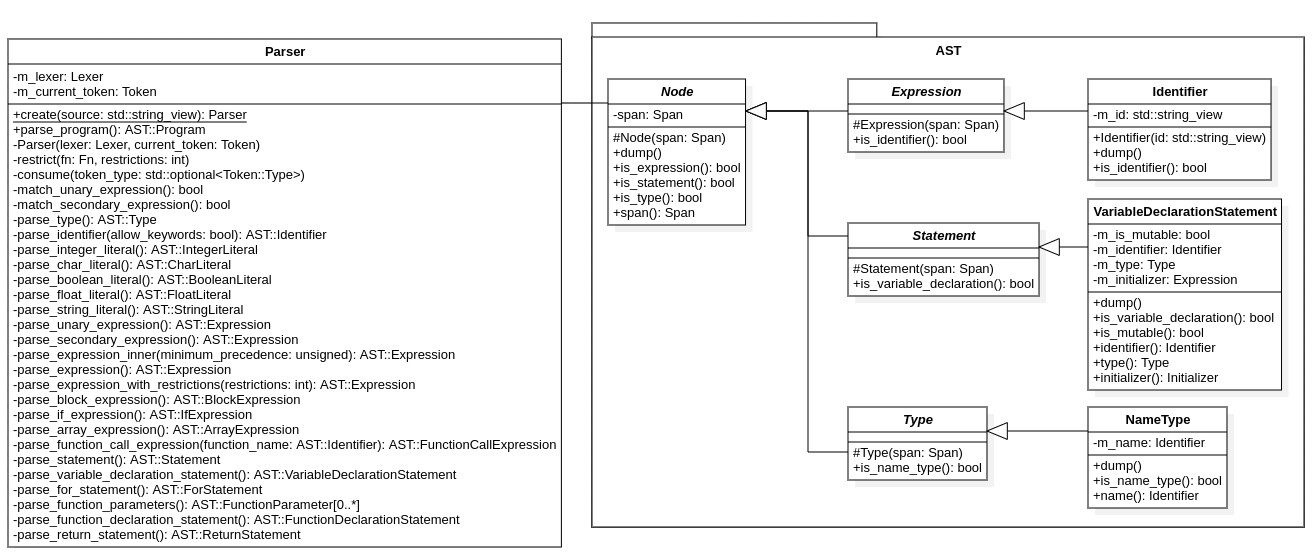
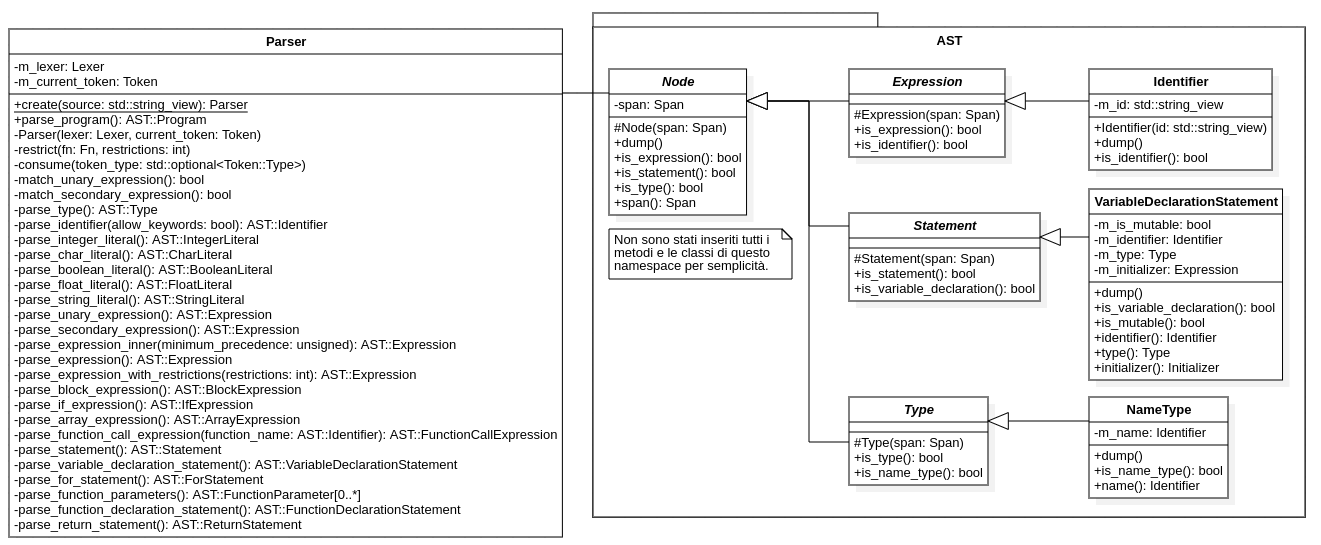
Finished second section of second chapter.

Changed region(s): [[0.0, 0.0, 0.9992, 0.9982]]

diff --git a/Architettura_del_compilatore.tex b/Architettura_del_compilatore.tex
@@ -78,6 +78,85 @@ In base al carattere incontrato, si delega il compito dell'analisi lessicale ad 
 
 L'analisi grammaticale \`e realizzata per mezzo della classe \texttt{Parser} e il gruppo di classi nel \textit{namespace} \texttt{AST}.
 
+Partiamo dal descrivere il \textit{namespace} \texttt{AST}. Questo contiene la classe madre \texttt{Node} che rappresenta un generico nodo dell'AST. L'unico suo attributo \`e \texttt{span}, la posizione nel codice sorgente. Da essa derivano le seguenti classi astratte:
+\begin{itemize}
+	\item \texttt{Expression}: rappresenta un'espressione, ovvero un nodo che restituisce un valore;
+	\item \texttt{Statement}: rappresenta uno italiano, ovvero un nodo che non restituisce un valore;
+	\item \texttt{Type}: rappresenta un tipo di dato.
+\end{itemize}
+Da ciascuna di queste a loro volta, derivano tutte le classi che rappresentano i nodi dell'AST. Ad esempio, come \`e possibile osservare nella figura \ref{fig:parser-uml}, possiamo osservare tre nodi:
+\begin{itemize}
+	\item \texttt{Identifier}: sottoclasse di \texttt{Expression}, rappresenta un identificatore ed \`e descritto dall'attributo stringa \texttt{id}.
+	\item \texttt{VariableDeclarationStatement}: sottoclasse di \texttt{Statement}, rappresenta una dichiarazione di variable ed \`e descritto dagli attributi:
+	\begin{itemize}
+		\item \texttt{is\_mutable}: un booleano che indica se la variabile \`e mutabile o meno;
+		\item \texttt{identifier}: il nome della variabile (un oggetto di tipo \linebreak \texttt{Identifier});
+		\item \texttt{type}: il tipo della variabile (un oggetto di tipo \texttt{Type});
+		\item \texttt{initializer}: l'inizializzatore della variabile (un oggetto di tipo \texttt{Expression}).
+	\end{itemize}
+	\item \texttt{NameType}: sottoclasse di \texttt{Type}, rappresenta un tipo di dato descritto da un singolo identificatore, il quale sar\`a un tipo primitivo (ad esempio: \texttt{i32} o \texttt{char}).
+\end{itemize}
+
+\`E bene notare che la classe \texttt{Node} definisce una serie di metodi importanti:
+\begin{itemize}
+	\item il metodo \texttt{dump} che permette di stampare in formato JSON l'intera struttura del nodo; questo risulta utile in fase di debugging per verificare l'AST generato dal \texttt{Parser}.
+	\item i metodi \mbox{\texttt{is\_expression}, \texttt{is\_statement} e \texttt{is\_type}} che permettono di verificare il tipo di nodo; questi metodi sono utili per effettuare controlli e conversioni di tipo durante l'analisi semantica e la generazione del codice.
+\end{itemize}
+
+Come anticipato nella sezione \ref{sec:analisi-grammaticale}, la grammatica di questo linguaggio \`e LL(1) e, citando \cite{alfred2007compilers}:
+\begin{parcolumns}[colwidths={1=0.44\textwidth,2=0.44\textwidth},rulebetween=true,nofirstindent=true,sloppy=true]{2}
+	% LTeX: language=en_us
+	\colchunk{
+		\leftskip=1em
+		``The first ``L'' in LL(1) stands for scanning the input from left to right, the second ``L'' for producing a leftmost derivation, and the ``1'' for using one input symbol of \emph{lookahead} at each step to make parsing action decisions.''
+	}
+	% LTeX: language=it
+	\colchunk{
+		\leftskip=1em
+		``La prima ``L'' in LL(1) indica che si analizza l'input da sinistra verso destra, la seconda ``L'' indica che si produce una derivazione sinistra e l'``1'' per usare un \emph{lookahead} di un simbolo d'input a ogni passo per fare decisioni di analisi grammaticale.''
+	}
+	\colplacechunks
+\end{parcolumns}
+
+I parser costruiti per questo tipo di grammatica, e di conseguenza quella di BugginOut, sono detti \emph{predictive}, ovvero dei parser \emph{recursive descent} senza il bisogno di \emph{backtracking}. I parser \emph{recursive descent} sono dei particolari parser \emph{top-down} costruiti con delle procedure ricorsive dove ognuna di queste riflette un non-terminale della grammatica. Si \`e scelto di costruire il parser seguendo questo approccio proprio perch\'e il codice che ne risulta \`e molto semplice, leggibile ed efficiente, non essendo richiesto il backtracking. Di fatti, gli unici due attributi richiesti per mantenere lo stato del parser sono:
+\begin{itemize}
+	\item \texttt{lexer}: il \texttt{Lexer} che fornisce i token da analizzare;
+	\item \texttt{current\_token}: il token corrente da analizzare.
+\end{itemize}
+
+Ogni metodo del parser, che rappresenta un non-terminale della grammatica, analizzer\`a il token corrente e, se corretto, lo \emph{consumer\`a}. Questa operazione viene implementata dal metodo \texttt{consume} e corrisponde ad ottenere il prossimo token dal \texttt{Lexer} e aggiornare \texttt{current\_token}. Il metodo prevede un parametro opzionale che permette di specificare il tipo di token atteso. Se il token corrente non corrisponde al tipo atteso, viene generato un errore di sintassi. Se il tipo di token non viene specificato, il metodo consuma il token corrente.
+
+\`E importante notare che per realizzare dei \emph{predictive parser} la grammatica deve soddisfare due requisiti molto importanti:
+\begin{itemize}
+	\item non deve contenere ricorsioni sinistre;
+	\item non deve essere ambigua.
+\end{itemize}
+
+La grammatica, per come \`e stata definita, non contiene ricorsioni sinistre ma \`e ambigua nella gestione delle espressioni e dei loro operatori. Questo \`e stato fatto volutamente per due ragioni:
+\begin{itemize}
+	\item \`e possibile cambiare la precedenza ed associativit\`a degli operatori in modo semplice, senza dover modificare la grammatica;
+	\item il parser non spende tempo utile nell'analizzare produzioni \textit{singole} ovvero costituite da un solo non-terminale.
+\end{itemize}
+In ogni caso, l'amgiguit\`a deve essere gestita e, per farlo, si utilizza un algoritmo di \emph{precedence climbing}.
+
+Introdotto per la prima volta da \cite{barron1981bcpl}, l'idea alla base \`e quella di avere una funzione ricevere in input un'espressione e una \emph{precedenza minima}. Durante l'analisi, la funzione consuma gli operandi fino a quando incontra operatori la cui precedenza \`e maggiore o uguale a quella minima. Se un operatore ha precedenza inferiore, l'espressione si interrompe e si ritorna al livello di ricorsione precedente. L'associativit\`a di un operatore viene gestita in maniera molto elegante, con un semplice controllo effettuato prima della prossima chiamata ricorsiva: se l'operatore \`e associativo a sinistra allora ne aumenta di un'unit\`a la precedenza, altrimenti la lascia invariata. Per capire meglio come funziona, vediamo degli esempi:
+\begin{itemize}
+	\item Si supponga di voler analizzare l'espressione \texttt{a + b + c}, che la precedenza di \texttt{+} sia 2 e che \texttt{+} sia associativo a sinistra.
+
+	La prima chiamata ricorsiva consuma \texttt{a} e chiama la funzione con precedenza minima $2 + 1$ essendo \texttt{+} associativo a sinistra. La prossima chiamata trover\`a nuovamente \texttt{+} con precedenza $2$ minore della precedenza minima $2 + 1$. Allora esce e l'espressione generata sar\`a \linebreak \texttt{(a + b) + c}.
+	\item Adesso si supponga di essere nelle stesse condizioni dell'esempio precedente con l'unica differenza che \texttt{+} sia associativo a destra.
+
+	Durante l'analisi la seconda chiamata alla funzione avr\`a precedenza minima $2$ e, dunque, quando incontrer\`a \texttt{+} lo consumer\`a e l'espressione generata sar\`a \texttt{a + (b + c)}.
+\end{itemize}
+
+Questo algoritmo \`e implementato tramite tre funzioni:
+\begin{itemize}
+	\item \texttt{parse\_expression\_inner}: \`e la funzione ricorsiva di cui si \`e discusso fino ad ora;
+	\item \texttt{parse\_primary\_expression}: \`e la funzione che analizza il non-terminale \texttt{<primary>};
+	\item \texttt{parse\_secondary\_expression}: \`e la funzione che, prese la parte sinistra e l'operatore di un'espressione ottenuti da \linebreak \texttt{parse\_expression\_inner}, analizza la parte destra (se necessario) e li combina per ottenere l'espressione intermedia.
+\end{itemize}
+Per gestire la precedenza e l'associativit\`a degli operatori si usa una classe ausiliaria detta \texttt{OperatorData} che mantiene questi due valori per ognuno degli operatori. Per rappresentare la precedenza si usa un intero senza segno che, se basso indica una bassa precedenza, se alto indica una alta precedenza. Per l'associativit\`a si usa una semplice enumerazione di due valori: \texttt{Left} se a sinistra e \texttt{Right} se a destra.
+
 \section{\texttt{Typechecker}}
 \label{sec:typechecker}
 

diff --git a/Flusso_di_compilazione.tex b/Flusso_di_compilazione.tex
@@ -21,7 +21,7 @@ Da \cite{alfred2007compilers}:
 		\begin{itemize}
 			\item A \emph{token} is a pair consisting of a token \emph{name} and an optional attribute \emph{value}. The token name is an abstract symbol representing a kind of lexical unit, e.g., a particular keyword, or a sequence of input characters denoting an identifier. [\ldots]
 			\item A \emph{pattern} is a description of the form that the lexemes of a token may take. In the case of a kewyord as a token, the pattern is just the sequence of characters that form the keyword. For identifiers and some other tokens, the pattern is a more complex structure that is matched by many strings.
-			\item A \emph{lexeme} is a sequence of characters in the source program that matches the pattern for a token and is identified by the lexical analyzer as an instance of that token.
+			\item A \emph{lexeme} is a sequence of characters in the source program that matches the pattern for a token and is identified by the lexical analyzer as an instance of that token.''
 		\end{itemize}
 	}
 	% LTeX: language=it
@@ -342,7 +342,7 @@ In questo esempio possiamo notare che una dichiarazione di funzione \`e definita
 	\item la parola chiave \texttt{fn};
 	\item un'identificatore (il token \texttt{Identifier});
 	\item una parentesi tonda aperta (il token \texttt{LeftParenthesis});
-	\item una lista opzionale di parametri definiti dalla regola \raggedright\texttt{<function\_parameters>};
+	\item una lista opzionale di parametri definiti dalla regola \linebreak \texttt{<function\_parameters>};
 	\item una parentesi tonda chiusa (il token \texttt{RightParenthesis});
 	\item due punti (il token \texttt{Colon});
 	\item un tipo, definito dalla regola \texttt{<Type>};

diff --git a/Tesi.tex b/Tesi.tex
@@ -7,7 +7,6 @@
 \usepackage{tikz}
 \usetikzlibrary{positioning, automata}
 \usepackage{hyphenat}
-\hyphenation{mate-mati-ca recu-perare}
 \usepackage{hyperref}
 \hypersetup{
 	colorlinks=true,
